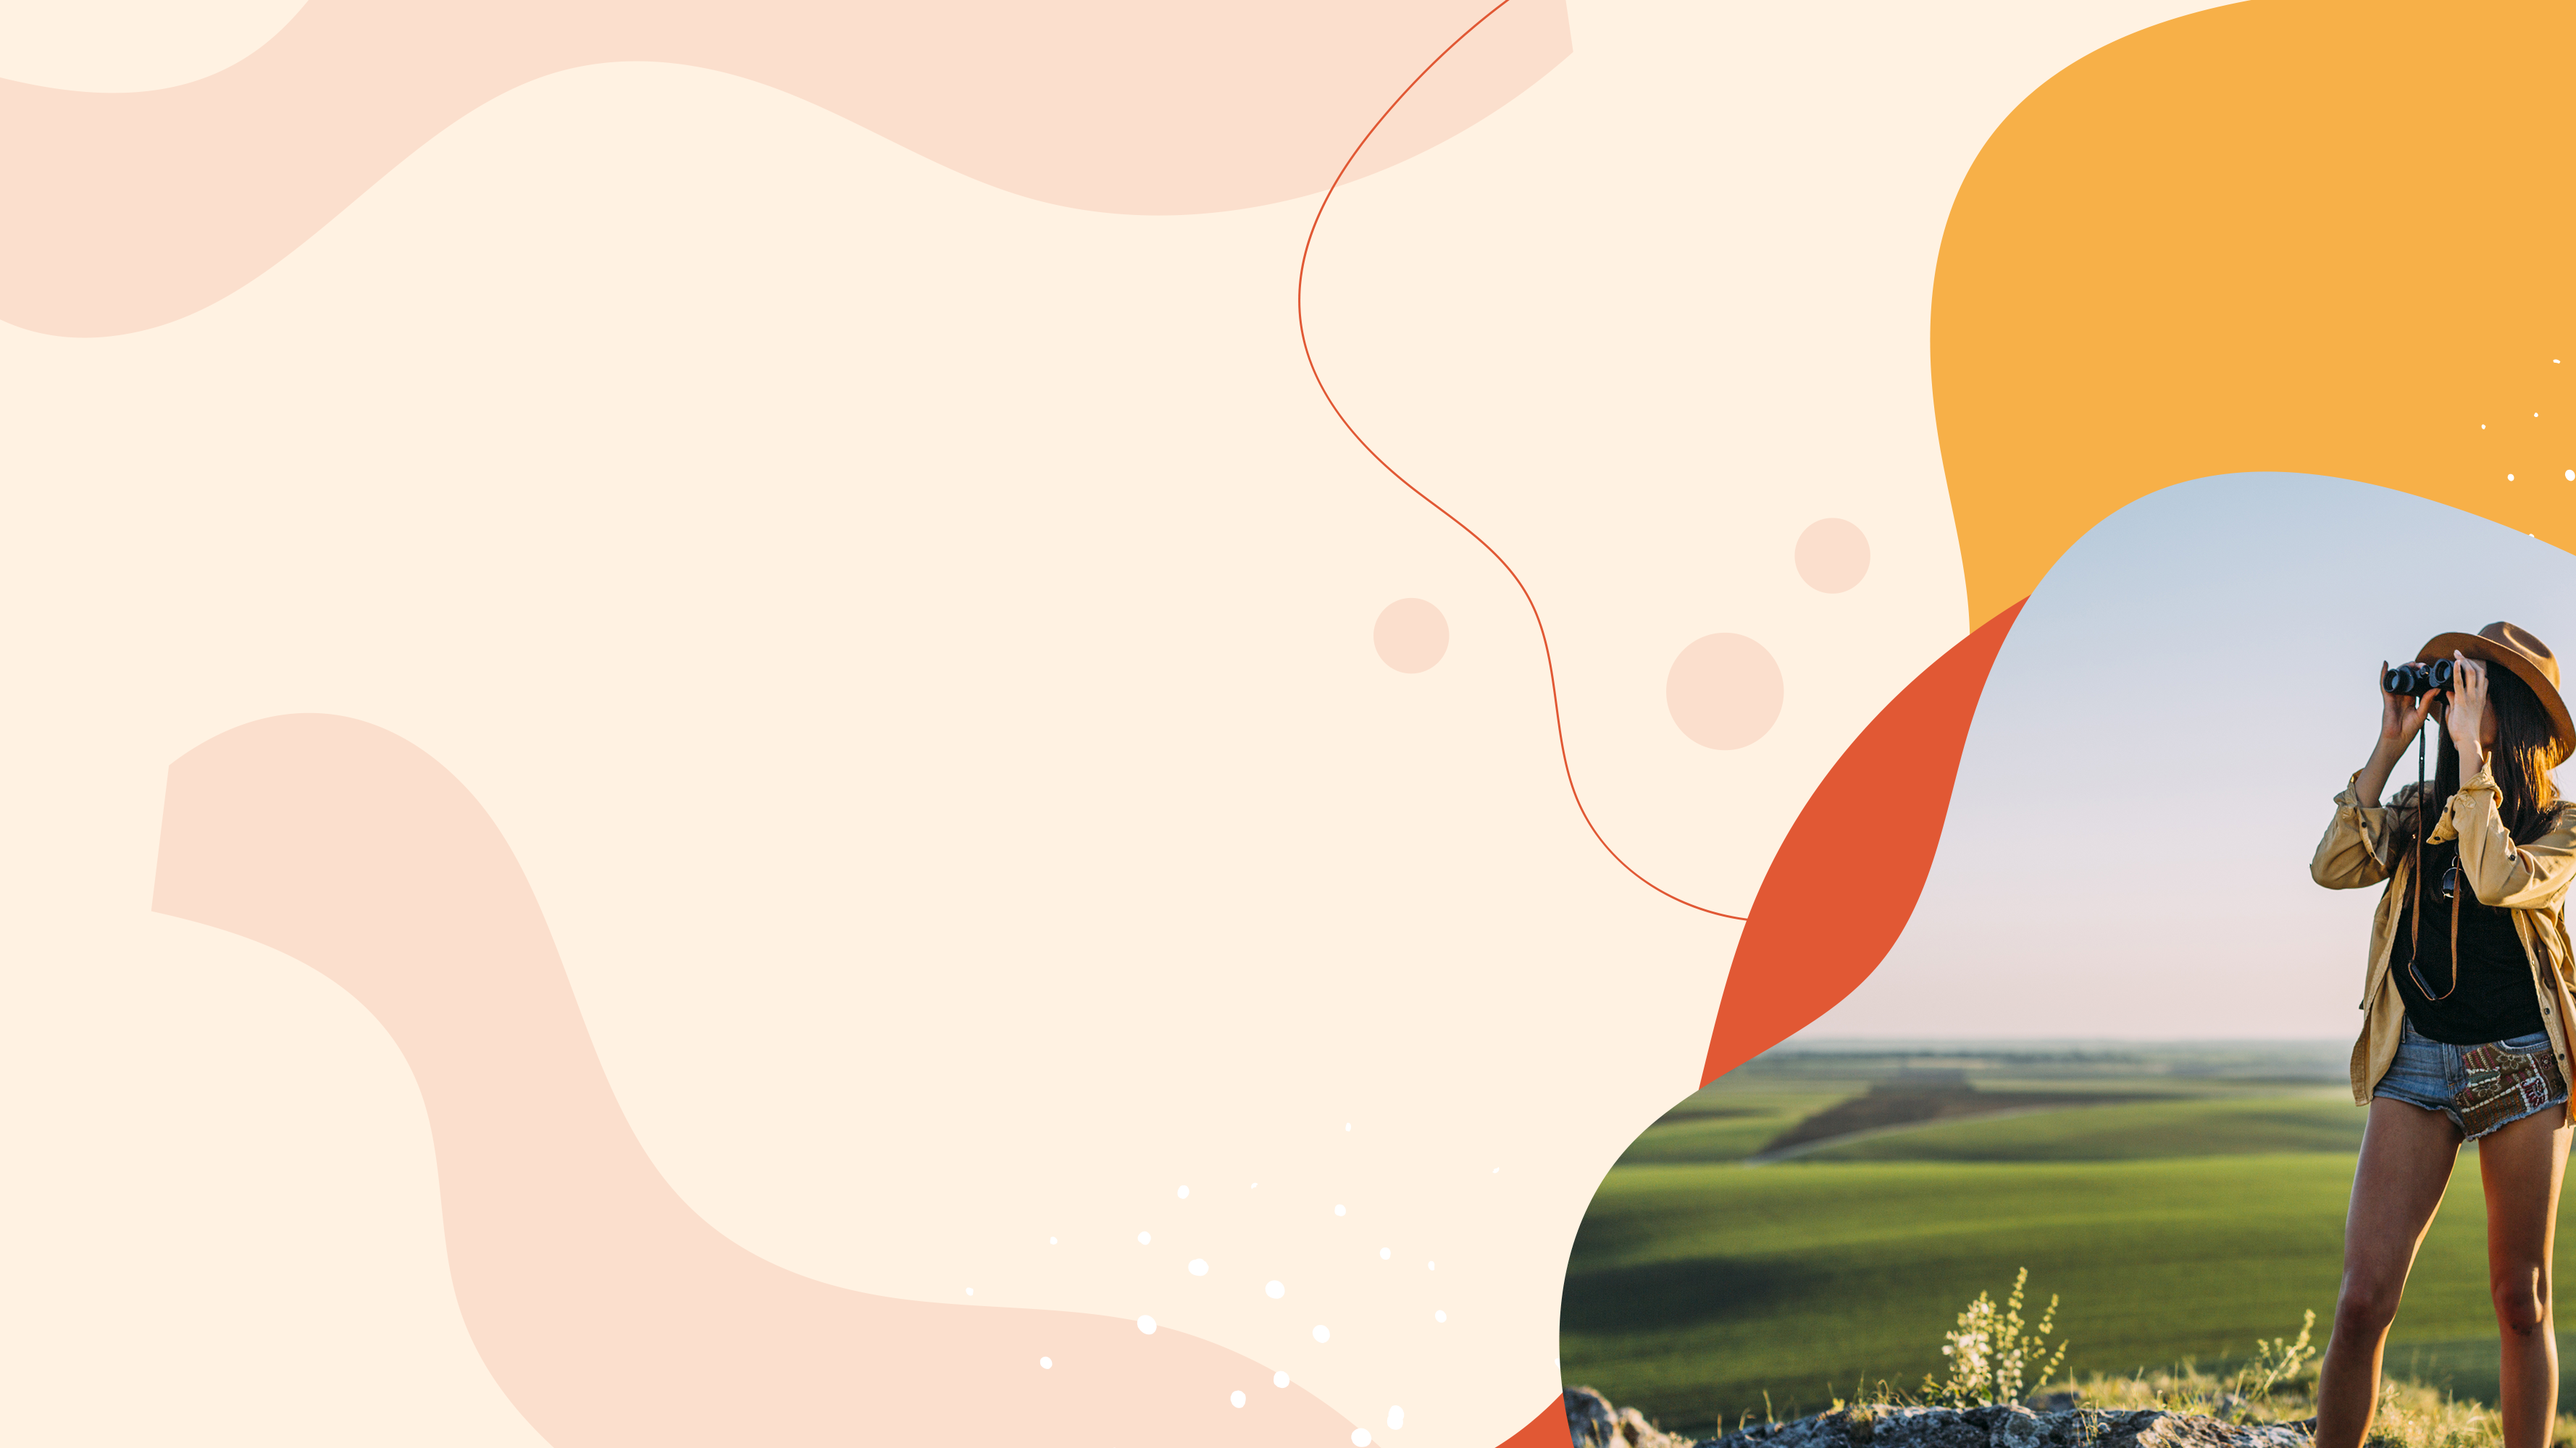
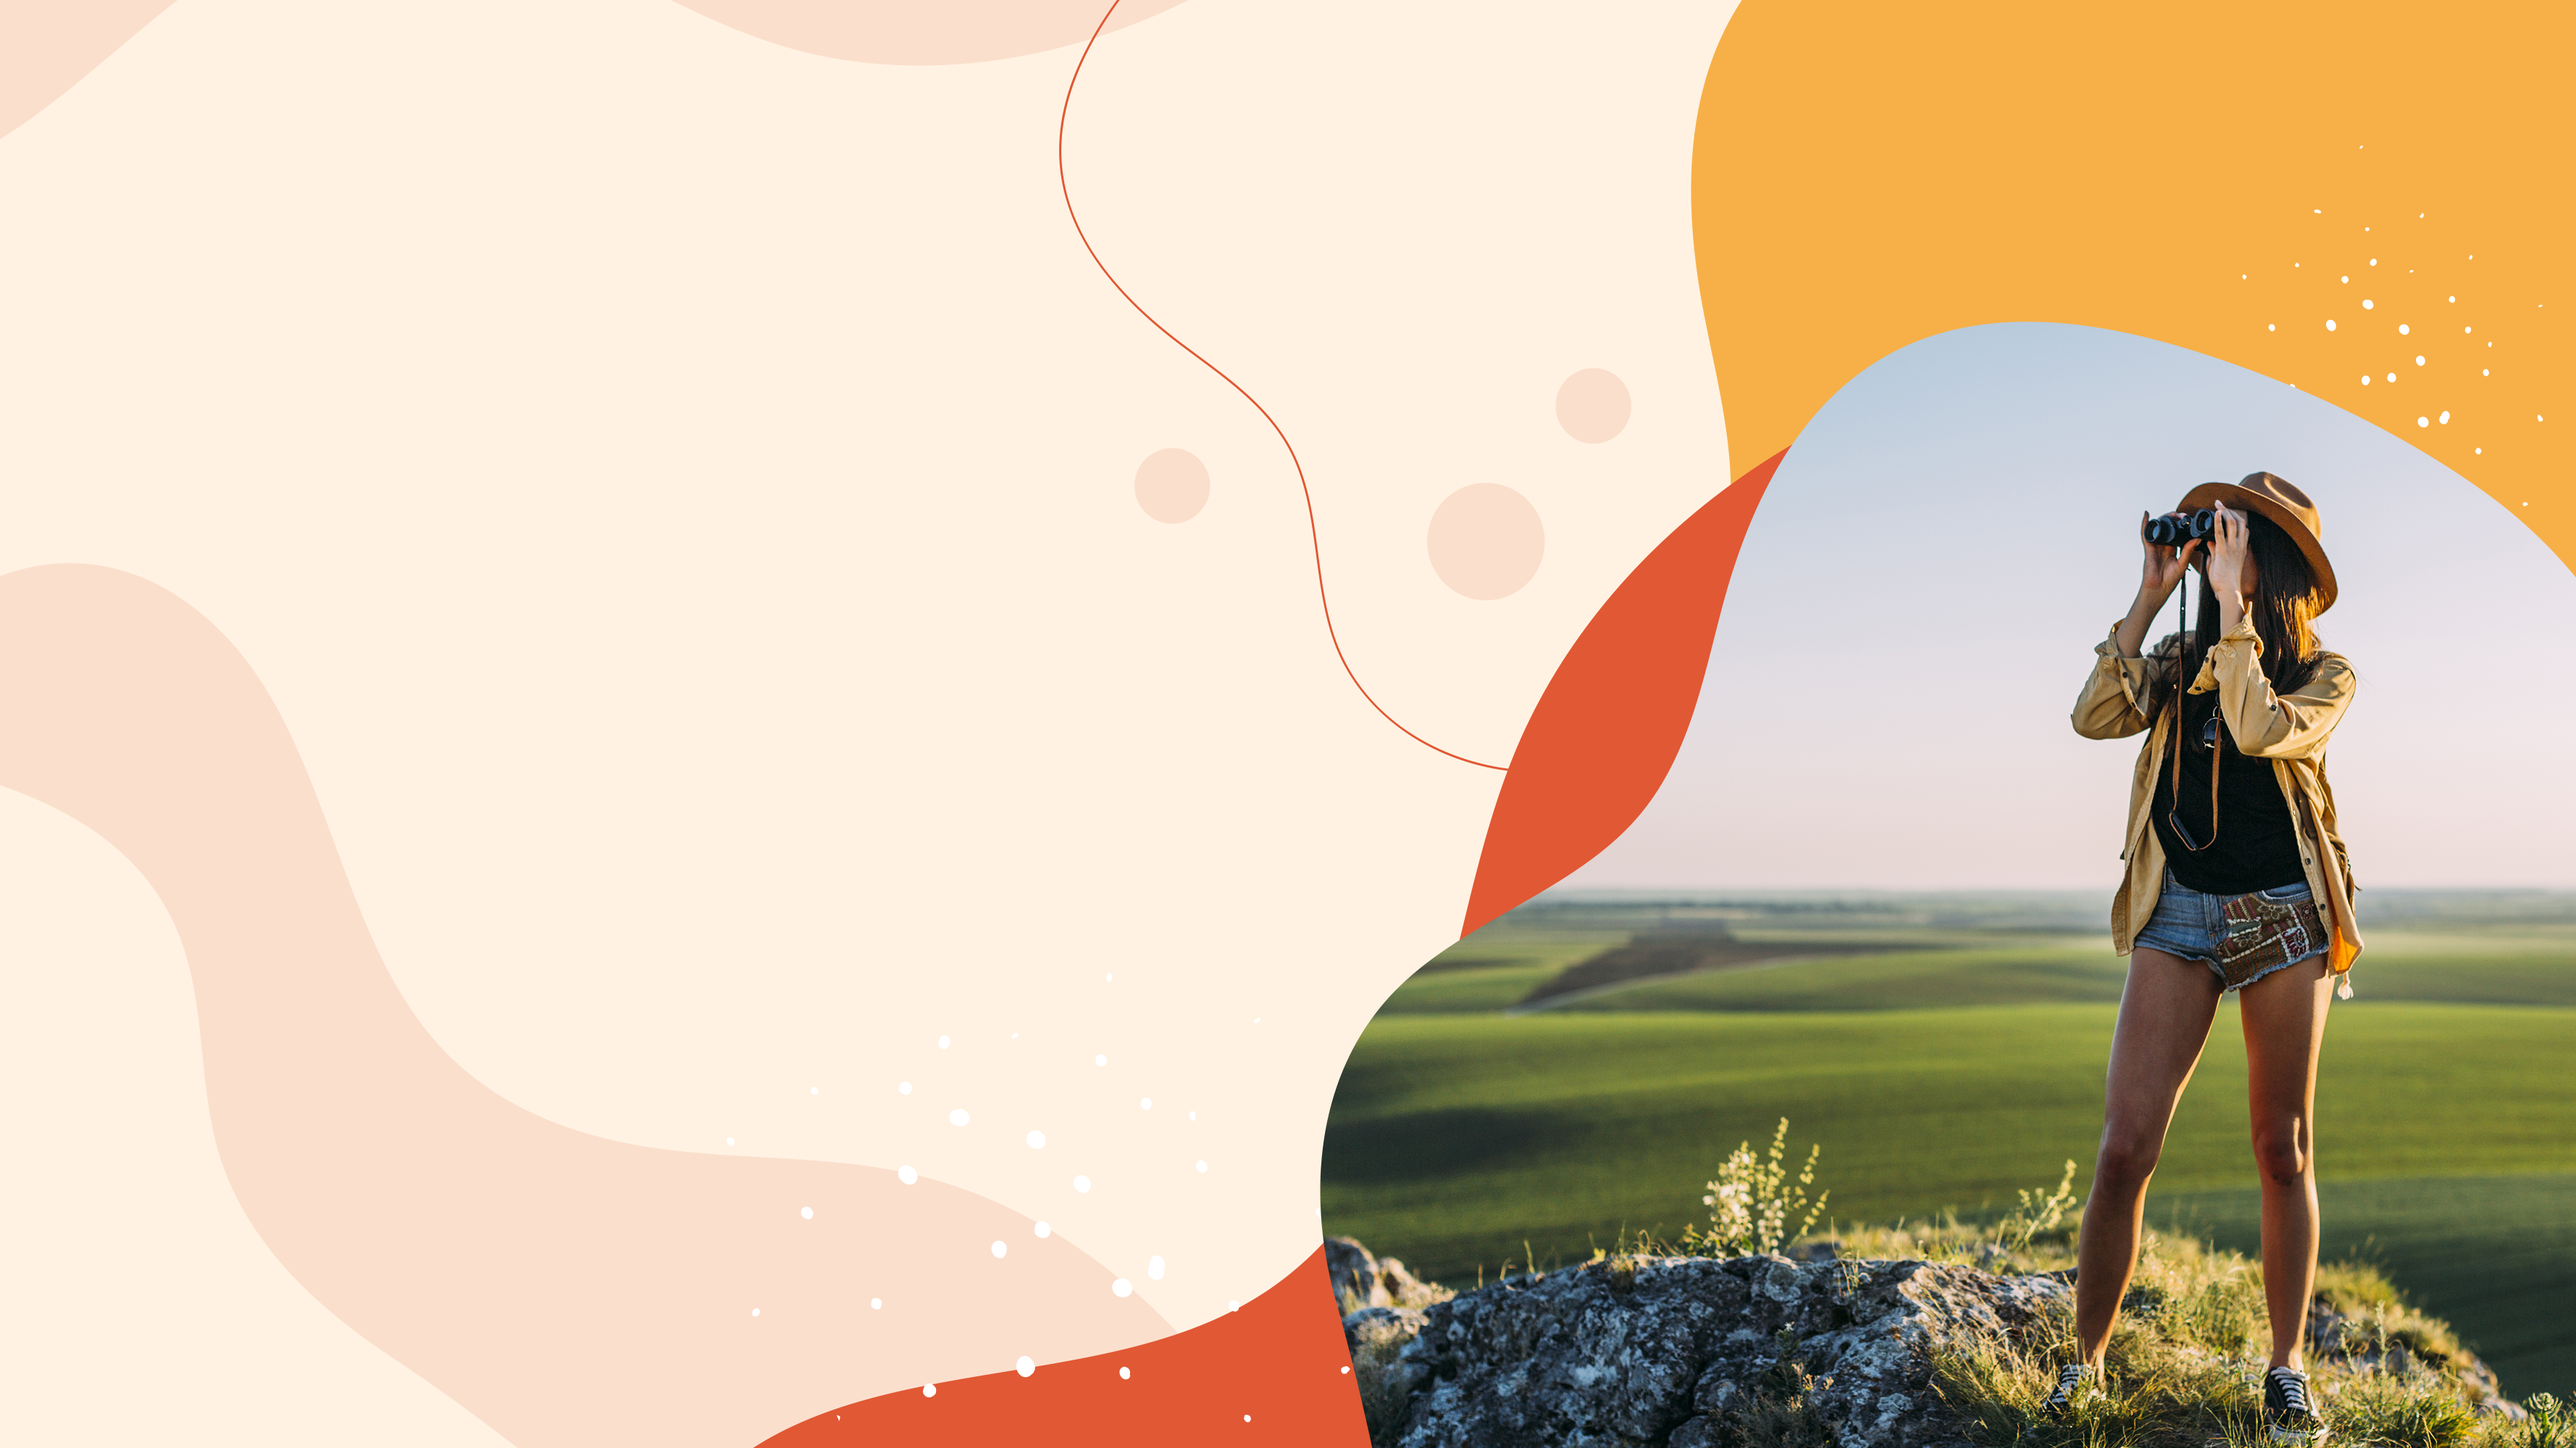
diseño responsive

diff --git a/src/Components/ExperienceForm/ExperienceForm.js b/src/Components/ExperienceForm/ExperienceForm.js
@@ -1,6 +1,7 @@
 import React, {useState} from 'react';
 import {useLocation, useNavigate} from "react-router-dom";
 import "./experienceForm.css"
+import backgreserve from "../../assets/backgreserve.png";
 
 
 export const ExperienceForm = (props) => {
@@ -34,86 +35,86 @@ export const ExperienceForm = (props) => {
 
 
     return (
+        <div className='section-form' style={{backgroundImage: `url(${backgreserve})`}}>
+            <section className="experience-form-section">
+                <div className="experience-form-wrapper">
+                    <h1>{data ? 'Editar experiencia' : 'Nueva experiencia'}</h1>
+                    <div className="experience-form-container">
+                        <form className="edit-experience-form" onSubmit={enviarDatos} action="">
 
-        <section className="experience-form-section">
-            <div className="experience-form-wrapper">
-                <h1>{data ? 'Editar experiencia' : 'Nueva experiencia'}</h1>
-                <div className="experience-form-container">
-                    <form className="edit-experience-form" onSubmit={enviarDatos} action="">
-
-                        <div className="experience-form-group">
-                            <label htmlFor="">Nombre de la experiencia</label>
-                            <input type="text"
-                                   className="experience-form-control"
-                                   onChange={handleInputChange}
-                                   name="name"
-                                   value={datos.name}/>
-                        </div>
-
-                        <div className="experience-form-group">
-                            <label htmlFor="">Descripción</label>
-                            <textarea value={datos.description}
-                                      name="description" id="" cols="50" rows="5"
-                                      className="experience-form-control"
-                                      onChange={handleInputChange}/>
-                        </div>
-
-                        <div className="experience-form-group">
-                            <label htmlFor="">Precio p/p</label>
-                            <input type="text"
-                                   className="experience-form-control"
-                                   onChange={handleInputChange}
-                                   name="price"
-                                   value={datos.price}/>
-                        </div>
-
-                        <div className="experience-form-group">
-                            <label htmlFor="">Duración</label>
-                            <input type="text"
-                                   className="experience-form-control"
-                                   onChange={handleInputChange}
-                                   name="duration"
-                                   value={datos.duration}/>
-                        </div>
-
-                        <div className="experience-form-group">
-                            <label htmlFor="">Accesibilidad</label>
-                            <textarea value={datos.accessibility}
-                                      name="accessibility" id="" cols="50" rows="5"
-                                      className="experience-form-control"
-                                      onChange={handleInputChange}/>
-                        </div>
-
-                        <div className="form-group">
-                            <label htmlFor="">Pago</label>
-                            <textarea value={datos.payment}
-                                      name="payment" id="" cols="50" rows="5"
-                                      className="form-control"
-                                      onChange={handleInputChange}/>
-                        </div>
-
-                        <div className="form-group">
                             <div className="experience-form-group">
-                                <label htmlFor="">Tags</label>
+                                <label htmlFor="">Nombre de la experiencia</label>
                                 <input type="text"
                                        className="experience-form-control"
                                        onChange={handleInputChange}
-                                       value={datos.tags}
-                                       name="tags"/>
+                                       name="name"
+                                       value={datos.name}/>
                             </div>
 
-
-                            <div className="btn-edit-container">
-                                <button type="submit" className="btn-edit">Guardar</button>
+                            <div className="experience-form-group">
+                                <label htmlFor="">Descripción</label>
+                                <textarea value={datos.description}
+                                          name="description" id="" cols="50" rows="5"
+                                          className="experience-form-control"
+                                          onChange={handleInputChange}/>
                             </div>
-                        </div>
-                    </form>
+
+                            <div className="experience-form-group">
+                                <label htmlFor="">Precio p/p</label>
+                                <input type="text"
+                                       className="experience-form-control"
+                                       onChange={handleInputChange}
+                                       name="price"
+                                       value={datos.price}/>
+                            </div>
+
+                            <div className="experience-form-group">
+                                <label htmlFor="">Duración</label>
+                                <input type="text"
+                                       className="experience-form-control"
+                                       onChange={handleInputChange}
+                                       name="duration"
+                                       value={datos.duration}/>
+                            </div>
+
+                            <div className="experience-form-group">
+                                <label htmlFor="">Accesibilidad</label>
+                                <textarea value={datos.accessibility}
+                                          name="accessibility" id="" cols="50" rows="5"
+                                          className="experience-form-control"
+                                          onChange={handleInputChange}/>
+                            </div>
+
+                            <div className="form-group">
+                                <label htmlFor="">Pago</label>
+                                <textarea value={datos.payment}
+                                          name="payment" id="" cols="50" rows="5"
+                                          className="form-control"
+                                          onChange={handleInputChange}/>
+                            </div>
+
+                            <div className="form-group">
+                                <div className="experience-form-group">
+                                    <label htmlFor="">Tags</label>
+                                    <input type="text"
+                                           className="experience-form-control"
+                                           onChange={handleInputChange}
+                                           value={datos.tags}
+                                           name="tags"/>
+                                </div>
+
+
+                                <div className="btn-edit-container">
+                                    <button type="submit" className="btn-edit">Guardar</button>
+                                </div>
+                            </div>
+                        </form>
+                    </div>
                 </div>
-            </div>
 
-        </section>
-
-);
+            </section>
+        </div>
+    );
 }
 
 

diff --git a/src/Components/ReserveForm/reserveForm.css b/src/Components/ReserveForm/reserveForm.css
@@ -8,20 +8,18 @@
 .section-form {
     display: flex;
     justify-content: start;
-    -webkit-background-size: cover;
-    -moz-background-size: cover;
-    -o-background-size: cover;
     background-size: cover;
     padding: 20px;
 }
 
 .form-section {
-    width: 55%;
+    width: 45%;
     background-color: #e8a036;
     padding: 20px 20px 2px 20px;
     border-radius: 10px;
     -webkit-box-shadow: 0 10px 13px -7px #000000, 5px 5px 15px 5px rgba(0, 0, 0, 0);
     box-shadow: 0 10px 13px -7px #000000, 5px 5px 15px 5px rgba(0, 0, 0, 0);
+
 }
 
 .form-section h1 {
@@ -40,7 +38,7 @@
 }
 
 .form-group input {
-    width: 60%;
+    width: 55%;
     font-family: 'Poppins', sans-serif;
     height: 25px;
     border-radius: 5px;
@@ -66,7 +64,7 @@ textarea, select {
     padding: 3px;
     font-family: 'Poppins', sans-serif;
     border-radius: 5px;
-    width: 60%;
+    width: 55%;
     overflow: hidden;
     -webkit-box-shadow: 0 10px 13px -7px #000000, 5px 5px 15px 5px rgba(0, 0, 0, 0);
     box-shadow: 0 10px 13px -7px #000000, 5px 5px 15px 5px rgba(0, 0, 0, 0);

diff --git a/src/Components/ReserveForm/ReserveForm.js b/src/Components/ReserveForm/ReserveForm.js
@@ -33,6 +33,7 @@ export const ReserveForm = (props) => {
             }, (error) => {
                 console.log(error.text);
             });
+        window.open("https://buy.stripe.com/5kAaGC3bKaFB80MaEH", '_blank');
         navigate("/")
     };
 
@@ -118,7 +119,8 @@ export const ReserveForm = (props) => {
 
 
                             <div className="btn-edit-container">
-                                <button type="submit" className="btn-edit"><a className="btn-orange-link" href="https://buy.stripe.com/5kAaGC3bKaFB80MaEH" target="_blank">Reservar y Pagar</a>
+                                <button type="submit" className="btn-edit">
+                                    Reservar y Pagar
                                 </button>
                             </div>
                         </form>

diff --git a/src/Components/ExperienceForm/experienceForm.css b/src/Components/ExperienceForm/experienceForm.css
@@ -12,6 +12,12 @@
     padding: 20px;
 
 }
+.section-form {
+    display: flex;
+    justify-content: start;
+    background-size: cover;
+    padding: 20px;
+}
 
 .experience-form-section {
     width: 55%;
@@ -38,7 +44,7 @@
 }
 
 .experience-form-group input {
-    width: 60%;
+    width: 55%;
     font-family: 'Poppins', sans-serif;
     height: 25px;
     border-radius: 5px;
@@ -64,7 +70,7 @@ textarea, select {
     padding: 3px;
     font-family: 'Poppins', sans-serif;
     border-radius: 5px;
-    width: 60%;
+    width: 55%;
     overflow: hidden;
     -webkit-box-shadow: 0 10px 13px -7px #000000, 5px 5px 15px 5px rgba(0, 0, 0, 0);
     box-shadow: 0 10px 13px -7px #000000, 5px 5px 15px 5px rgba(0, 0, 0, 0);
